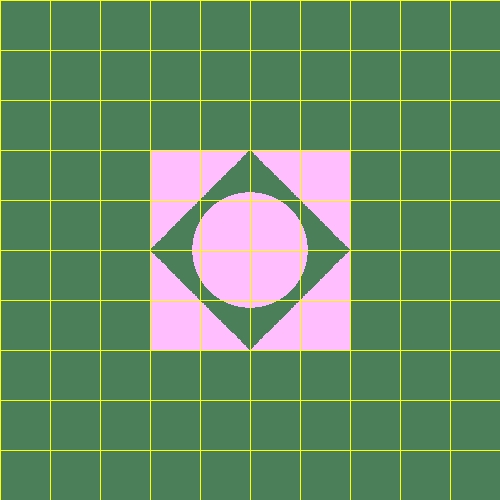
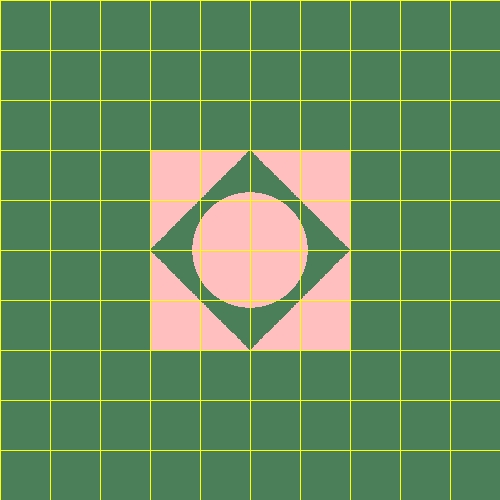
bye 19/04/2020 17:44

Changed region(s): [[0.3, 0.3, 0.72, 0.72]]

diff --git a/unittests/renderer/RenderTests.java b/unittests/renderer/RenderTests.java
@@ -1,9 +1,10 @@
 package renderer;
+
+
+import org.junit.jupiter.api.Test;
 import elements.*;
 import geometries.*;
 import primitives.*;
-
-import org.junit.jupiter.api.Test;
 import scene.Scene;
 
 /**
@@ -11,7 +12,7 @@ import scene.Scene;
  *
  * @author Dan
  */
-        public class RenderTests {
+public class RenderTests {
 
         /**
          * Produce a scene with basic 3D model and render it into a jpeg image with a
@@ -19,54 +20,53 @@ import scene.Scene;
          */
         @Test
         public void basicRenderTwoColorTest() {
-        Scene scene = new Scene("Test scene");
-        scene.setCamera(new Camera(Point3D.ZERO, new Vector(0, 0, 1), new Vector(0, -1, 0)));
-        scene.setDistance(100);
-        scene.setBackground(new Color(75, 127, 90));
-        scene.setAmbientLight(new AmbientLight(new Color(255, 191, 191), 1));
+                Scene scene = new Scene("Test scene");
+                scene.setCamera(new Camera(Point3D.ZERO, new Vector(0, 0, 1), new Vector(0, -1, 0)));
+                scene.setDistance(100);
+                scene.setBackground(new Color(75, 127, 90));
+                scene.setAmbientLight(new AmbientLight(new Color(255, 191, 191), 1));
 
-        scene.addGeometries(new Sphere(50, new Point3D(0, 0, 100), new Color(java.awt.Color.BLUE), new Material(0.5, 0.5, 100)));
+                scene.addGeometries(new Sphere(50, new Point3D(0, 0, 100)));
 
-        scene.addGeometries(
-        new Triangle(new Color(java.awt.Color.BLUE), new Point3D(100, 0, 100), new Point3D(0, 100, 100), new Point3D(100, 100, 100)),
-        new Triangle(new Color(java.awt.Color.BLUE), new Point3D(100, 0, 100), new Point3D(0, -100, 100), new Point3D(100, -100, 100)),
-        new Triangle(new Color(java.awt.Color.BLUE), new Point3D(-100, 0, 100), new Point3D(0, 100, 100), new Point3D(-100, 100, 100)),
-        new Triangle(new Color(java.awt.Color.BLUE), new Point3D(-100, 0, 100), new Point3D(0, -100, 100), new Point3D(-100, -100, 100)));
+                scene.addGeometries(
+                        new Triangle(new Point3D(100, 0, 100), new Point3D(0, 100, 100), new Point3D(100, 100, 100)),
+                        new Triangle(new Point3D(100, 0, 100), new Point3D(0, -100, 100), new Point3D(100, -100, 100)),
+                        new Triangle(new Point3D(-100, 0, 100), new Point3D(0, 100, 100), new Point3D(-100, 100, 100)),
+                        new Triangle(new Point3D(-100, 0, 100), new Point3D(0, -100, 100), new Point3D(-100, -100, 100)));
 
-        ImageWriter imageWriter = new ImageWriter("base render test", 500, 500, 500, 500);
-        Render render = new Render(scene, imageWriter);
+                ImageWriter imageWriter = new ImageWriter("base render test", 500, 500, 500, 500);
+                Render render = new Render(scene,imageWriter);
 
-        render.renderImage();
-        render.printGrid(50, java.awt.Color.YELLOW);
-        render.writeToImage();
+                render.renderImage();
+                render.printGrid(50, java.awt.Color.YELLOW);
+                render.writeToImage();
         }
+
         @Test
         public void basicRenderMultiColorTest() {
-        Scene scene = new Scene("Test scene");
-        scene.setCamera(new Camera(Point3D.ZERO, new Vector(0, 0, 1), new Vector(0, -1, 0)));
-        scene.setDistance(100);
-        scene.setBackground(Color.BLACK);
-        scene.setAmbientLight(new AmbientLight(new Color(java.awt.Color.WHITE), 0.2));
+                Scene scene = new Scene("Test scene");
+                scene.setCamera(new Camera(Point3D.ZERO, new Vector(0, 0, 1), new Vector(0, -1, 0)));
+                scene.setDistance(100);
+                scene.setBackground(Color.BLACK);
+                scene.setAmbientLight(new AmbientLight(new Color(java.awt.Color.WHITE), 0.2));
 
-        scene.addGeometries(new Sphere(50, new Point3D(0, 0, 100), new Color(java.awt.Color.BLUE), new Material(0.5, 0.5, 100)));
+                scene.addGeometries(new Sphere(50, new Point3D(0, 0, 100)));
 
-        scene.addGeometries(
-        new Triangle(new Color(java.awt.Color.BLUE),
-        new Point3D(100, 0, 100), new Point3D(0, 100, 100), new Point3D(100, 100, 100)),      // lower right
-        new Triangle(
-                new Color(java.awt.Color.BLUE), new Point3D(100, 0, 100), new Point3D(0, -100, 100), new Point3D(100, -100, 100)),    // upper right
-        new Triangle(new Color(java.awt.Color.RED),
-        new Point3D(-100, 0, 100), new Point3D(0, 100, 100), new Point3D(-100, 100, 100)),    // lower left
-        new Triangle(new Color(java.awt.Color.GREEN),
-        new Point3D(-100, 0, 100), new Point3D(0, -100, 100), new Point3D(-100, -100, 100))); // upper left
+                scene.addGeometries(
+                        new Triangle(new Color(java.awt.Color.BLUE),
+                                new Point3D(100, 0, 100), new Point3D(0, 100, 100), new Point3D(100, 100, 100)),      // lower right
+                        new Triangle(
+                                new Point3D(100, 0, 100), new Point3D(0, -100, 100), new Point3D(100, -100, 100)),    // upper right
+                        new Triangle(new Color(java.awt.Color.RED),
+                                new Point3D(-100, 0, 100), new Point3D(0, 100, 100), new Point3D(-100, 100, 100)),    // lower left
+                        new Triangle(new Color(java.awt.Color.GREEN),
+                                new Point3D(-100, 0, 100), new Point3D(0, -100, 100), new Point3D(-100, -100, 100))); // upper left
 
-        ImageWriter imageWriter = new ImageWriter("color render test", 500, 500, 500, 500);
-        Render render = new Render(scene, imageWriter);
+                ImageWriter imageWriter = new ImageWriter("color render test", 500, 500, 500, 500);
+                Render render = new Render(scene, imageWriter);
 
-        render.renderImage();
-        render.printGrid(50, java.awt.Color.WHITE);
-        render.writeToImage();
+                render.renderImage();
+                render.printGrid(50, java.awt.Color.WHITE);
+                render.writeToImage();
         }
-
-        }
-
+}
